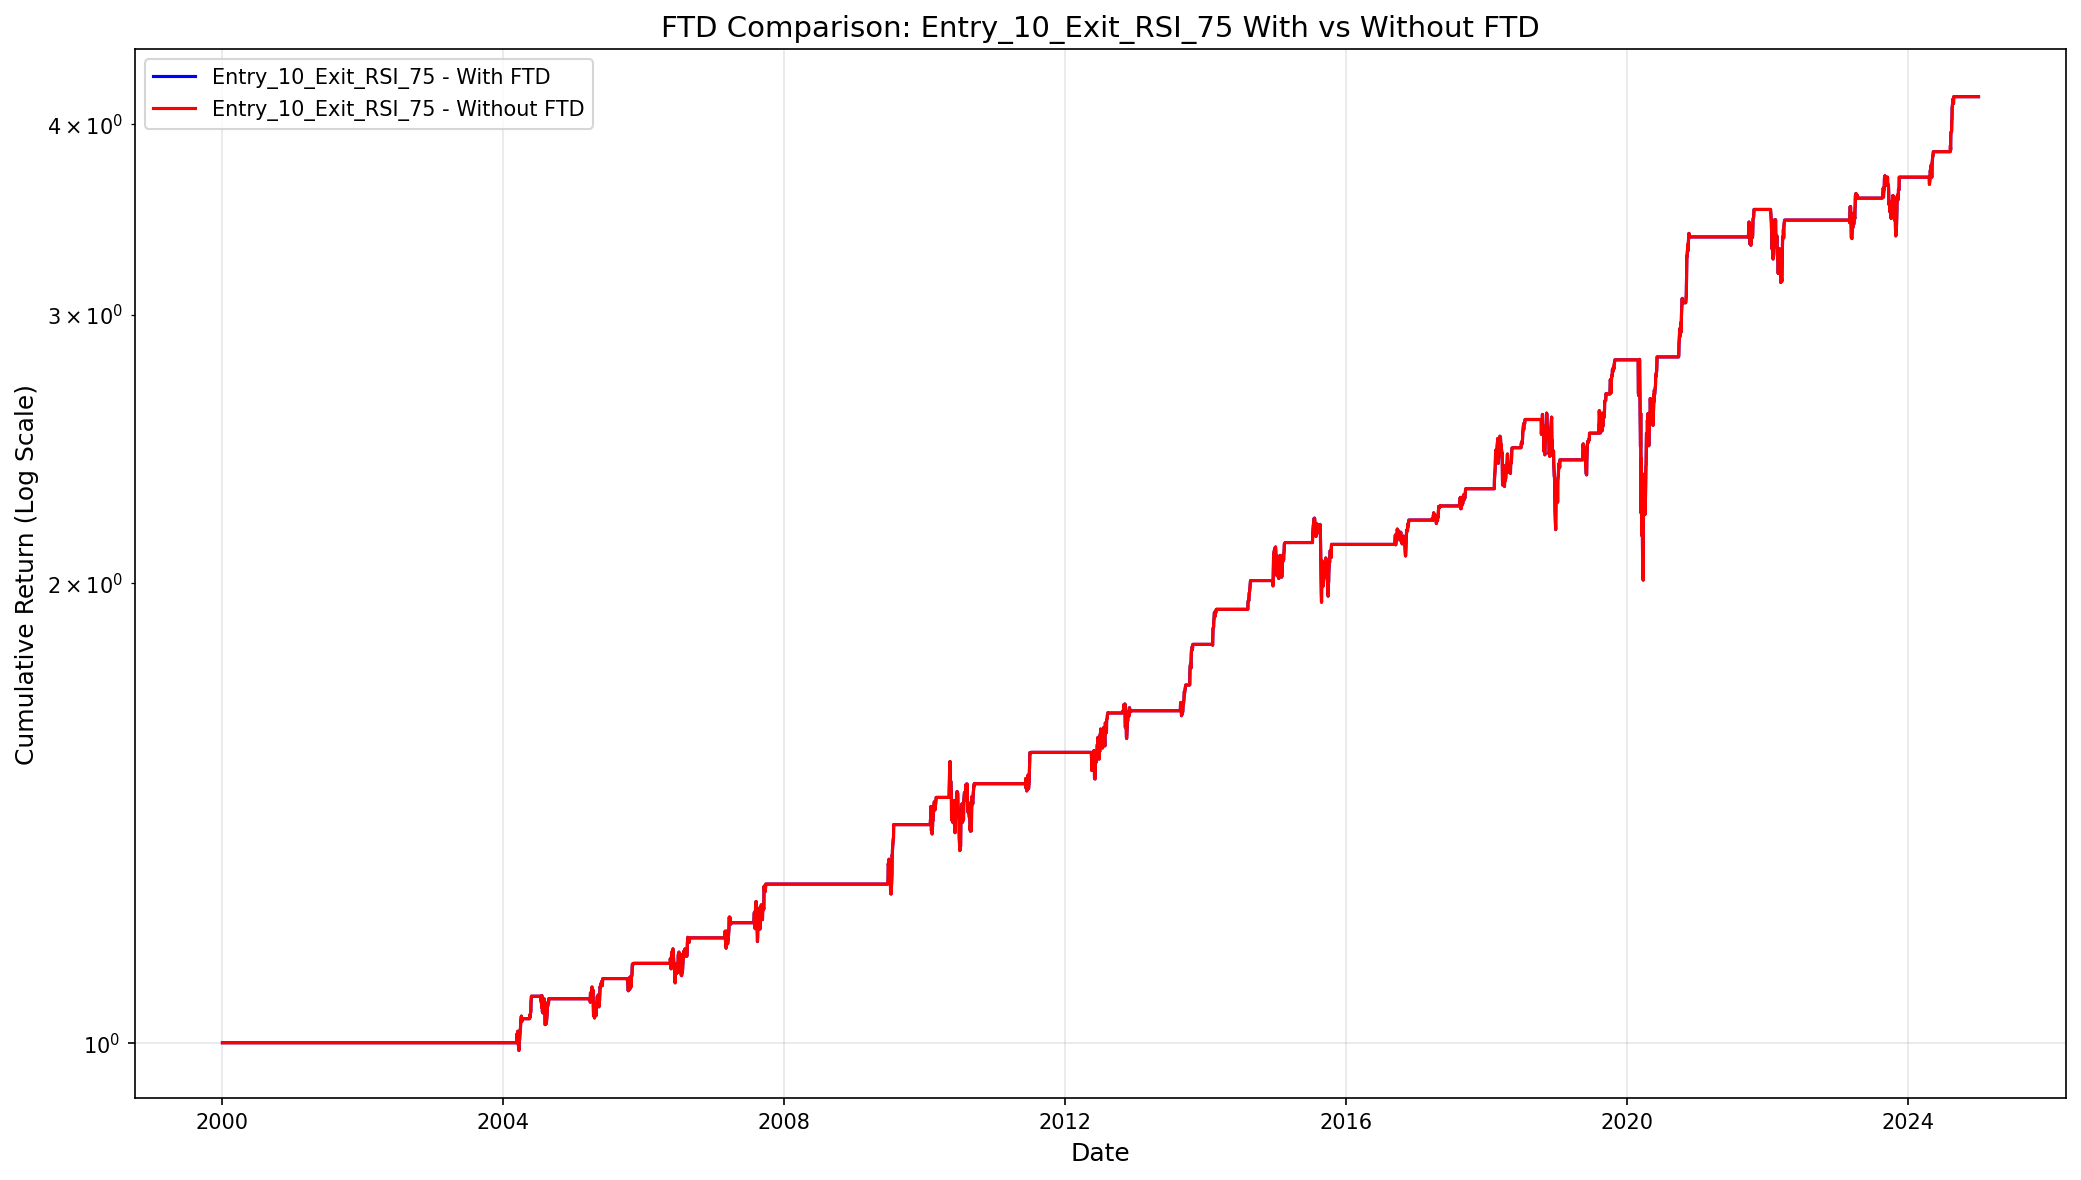
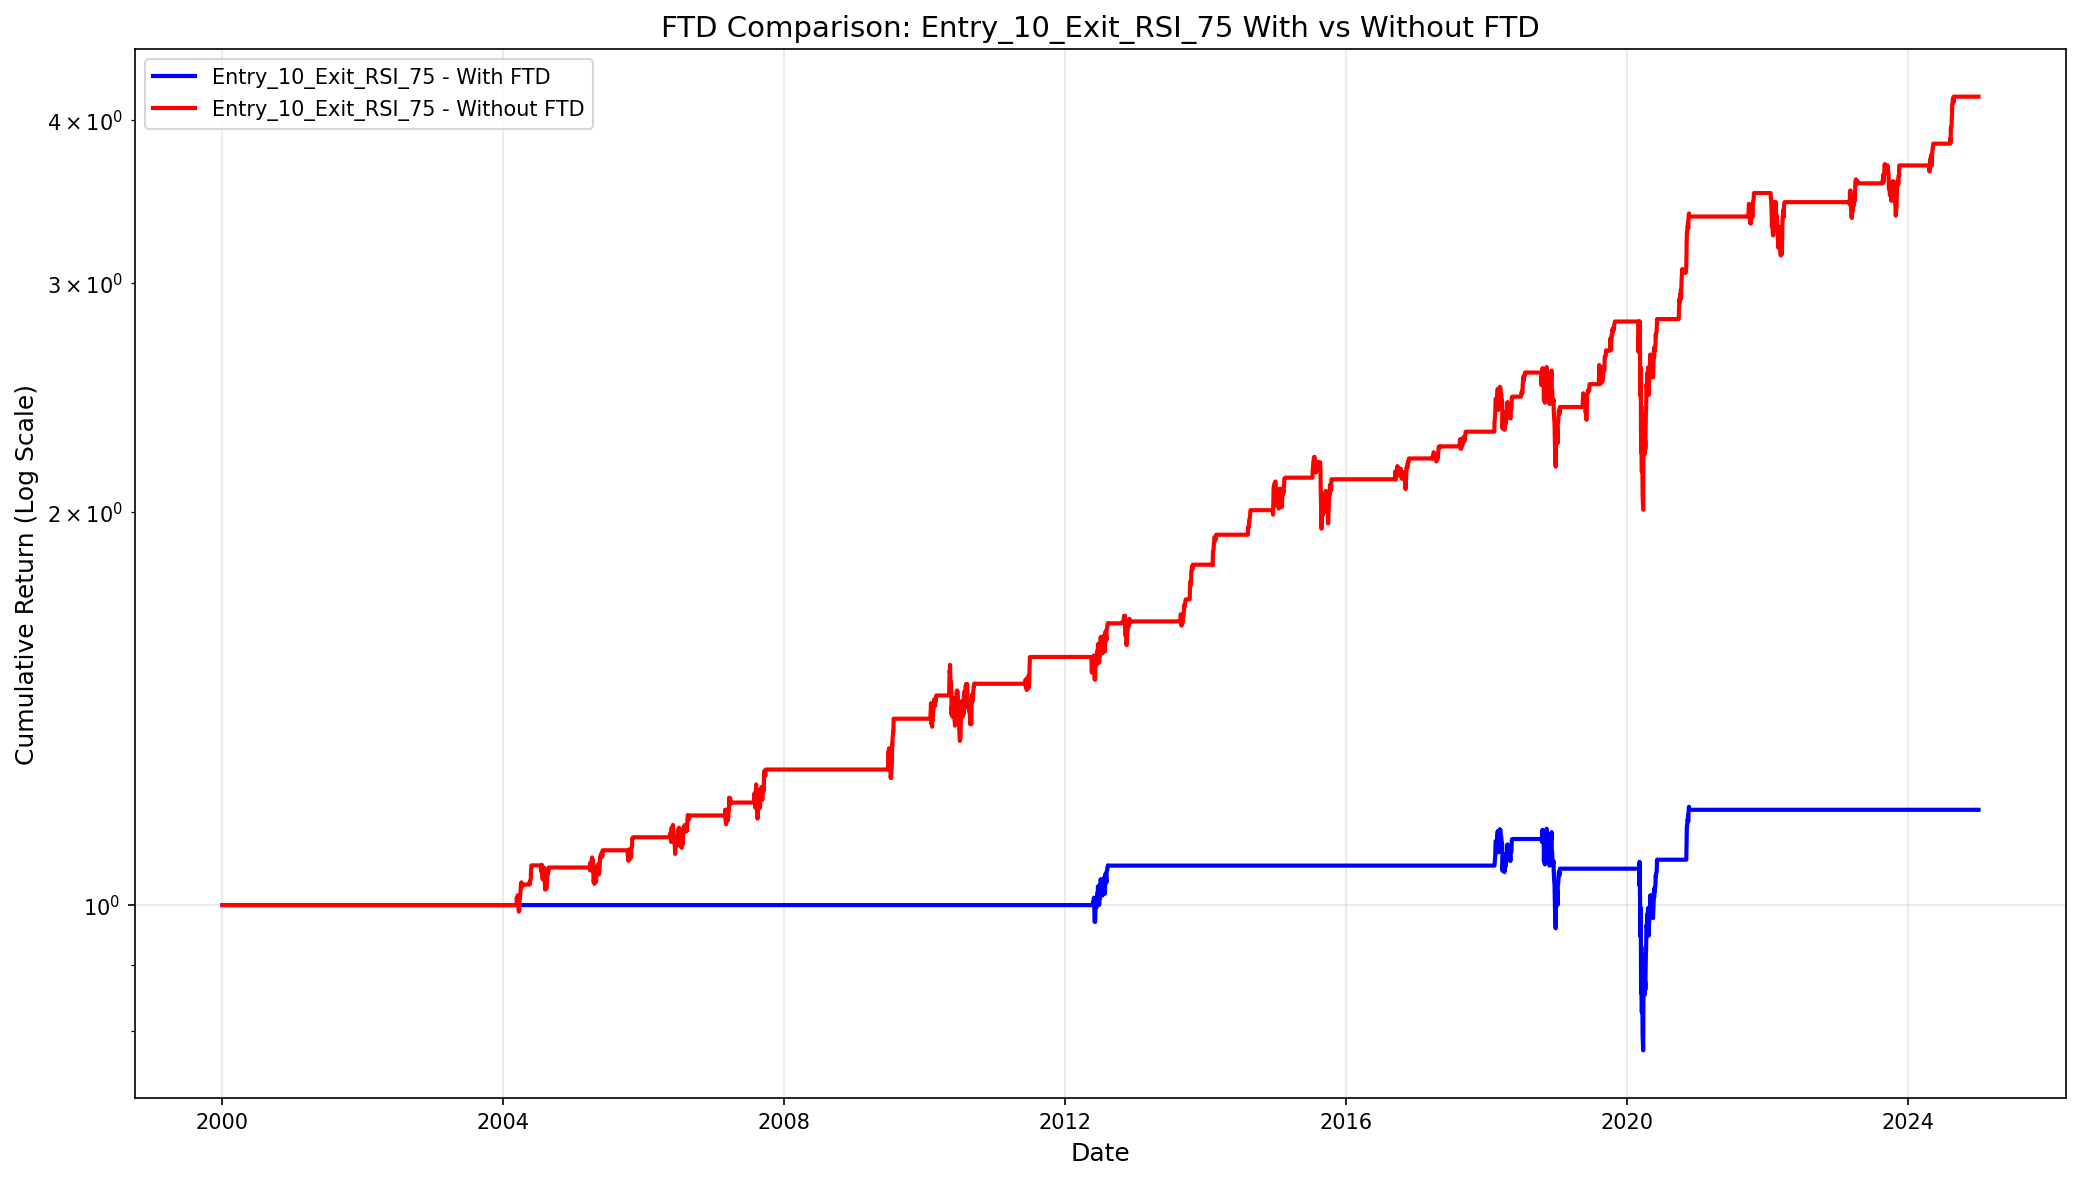
Fix FTD comparison chart
- Added df copy in run_backtest to prevent data contamination
- Chart now shows distinct equity curves for with/without FTD
- With FTD: 5 trades, 18.32% return
- Without FTD: 38 trades, 316.72% return

diff --git a/ftd_strategy.py b/ftd_strategy.py
@@ -332,6 +332,9 @@ def run_backtest(df, entry_name, exit_name):
         df_trades: DataFrame with trade signals
         equity_curve: Series with cumulative equity
     """
+    # Work on a copy to avoid modifying original data
+    df = df.copy()
+    
     entry_func = ENTRY_CONDITIONS[entry_name]
     exit_config = EXIT_CONDITIONS[exit_name]
     
@@ -684,12 +687,15 @@ def run_comparison(df):
     print("FTD Comparison: Entry_10_Exit_RSI_75 with vs without FTD")
     print("=" * 60)
     
-    # Run with FTD
-    df_with_ftd, trades_with_ftd = run_backtest(df, 'Entry_10', 'Exit_RSI_75')
+    # Make fresh copies to avoid any data contamination
+    df_fresh = df.copy()
+    
+    # Run with FTD - Entry 10 includes FTD criteria
+    df_with_ftd, trades_with_ftd = run_backtest(df_fresh.copy(), 'Entry_10', 'Exit_RSI_75')
     metrics_with = calculate_metrics(trades_with_ftd, df_with_ftd)
     
-    # Run without FTD
-    df_no_ftd, trades_no_ftd = run_backtest(df, 'Entry_10_No_FTD', 'Exit_RSI_75')
+    # Run without FTD - Entry 10 No FTD does not include FTD criteria  
+    df_no_ftd, trades_no_ftd = run_backtest(df_fresh.copy(), 'Entry_10_No_FTD', 'Exit_RSI_75')
     metrics_no_ftd = calculate_metrics(trades_no_ftd, df_no_ftd)
     
     print(f"\nWith FTD:")
@@ -698,21 +704,27 @@ def run_comparison(df):
     print(f"Without FTD:")
     print(f"  Trades: {metrics_no_ftd['Num_Trades']}, Return: {metrics_no_ftd['Total_Return']:.2f}%, PF: {metrics_no_ftd['Profit_Factor']:.2f}, Win Rate: {metrics_no_ftd['Win_Rate']:.1f}%")
     
-    # Create comparison plot
-    plt.figure(figsize=(14, 8))
-    plt.yscale('log')
+    # Create comparison plot with clear distinction
+    fig, ax = plt.subplots(figsize=(14, 8))
+    ax.set_yscale('log')
     
     dates = df['Date']
-    plt.plot(dates, df_with_ftd['Cumulative_Strategy_Return'], label='Entry_10_Exit_RSI_75 - With FTD', linewidth=1.5, color='blue')
-    plt.plot(dates, df_no_ftd['Cumulative_Strategy_Return'], label='Entry_10_Exit_RSI_75 - Without FTD', linewidth=1.5, color='red')
     
-    plt.xlabel('Date', fontsize=12)
-    plt.ylabel('Cumulative Return (Log Scale)', fontsize=12)
-    plt.title('FTD Comparison: Entry_10_Exit_RSI_75 With vs Without FTD', fontsize=14)
-    plt.legend(loc='upper left', fontsize=10)
-    plt.grid(True, alpha=0.3)
+    # Plot with FTD - blue line
+    curve_ftd = df_with_ftd['Cumulative_Strategy_Return'].values
+    ax.plot(dates, curve_ftd, label='Entry_10_Exit_RSI_75 - With FTD', linewidth=2, color='blue')
+    
+    # Plot without FTD - red line
+    curve_no_ftd = df_no_ftd['Cumulative_Strategy_Return'].values
+    ax.plot(dates, curve_no_ftd, label='Entry_10_Exit_RSI_75 - Without FTD', linewidth=2, color='red')
+    
+    ax.set_xlabel('Date', fontsize=12)
+    ax.set_ylabel('Cumulative Return (Log Scale)', fontsize=12)
+    ax.set_title('FTD Comparison: Entry_10_Exit_RSI_75 With vs Without FTD', fontsize=14)
+    ax.legend(loc='upper left', fontsize=10)
+    ax.grid(True, alpha=0.3)
+    
     plt.tight_layout()
-    
     plt.savefig('ftd_comparison.png', dpi=150, bbox_inches='tight')
     plt.close()
     
